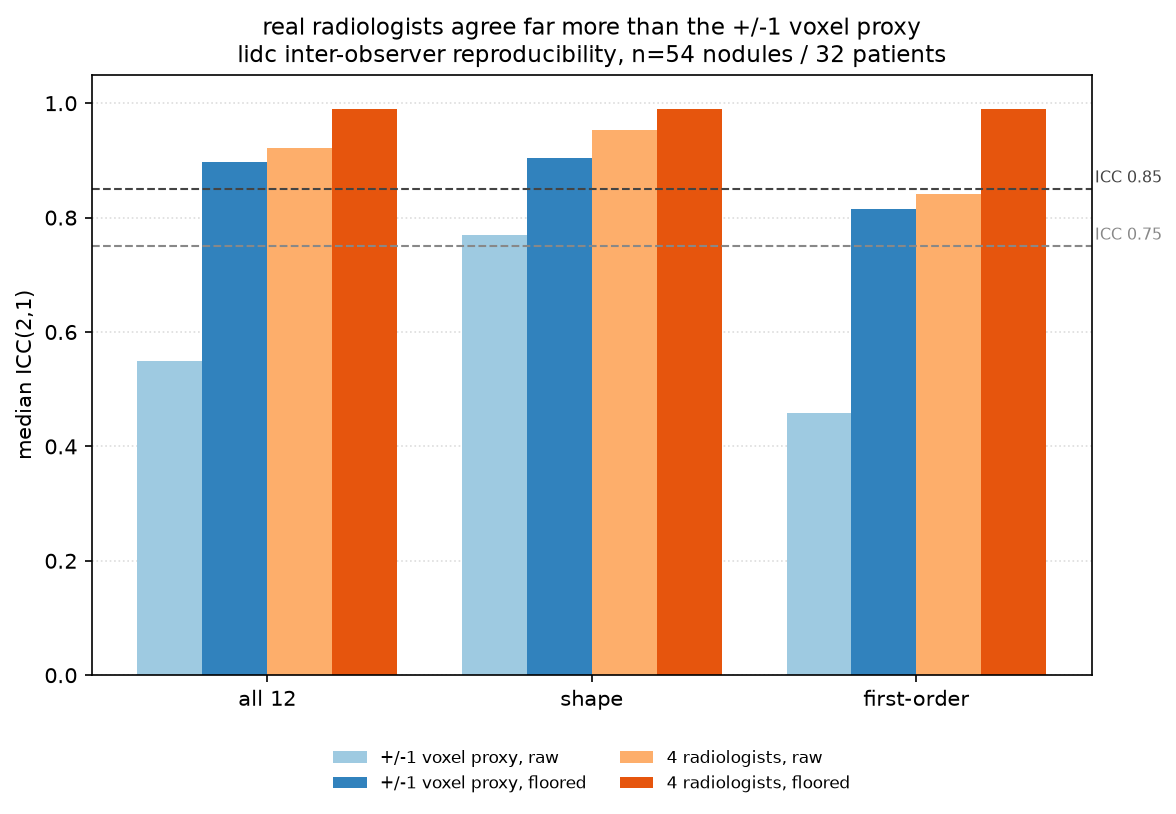
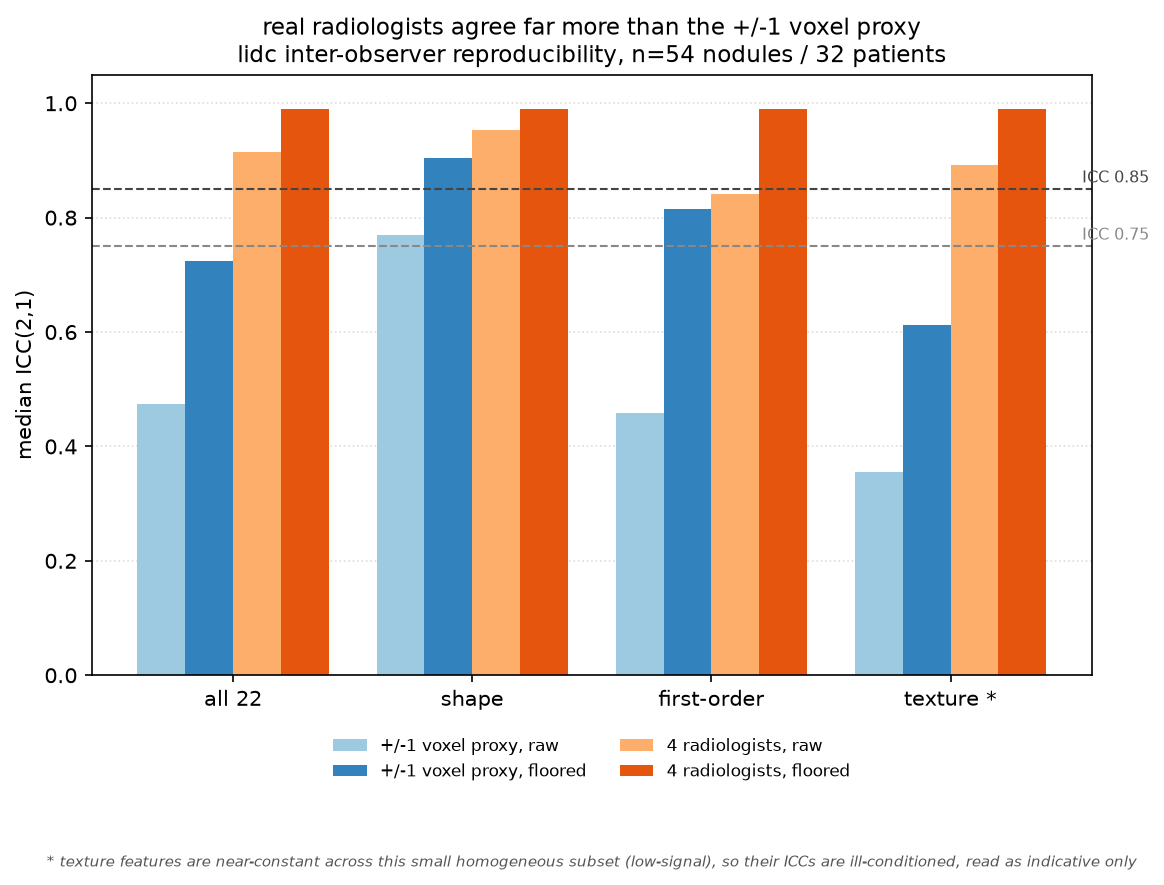
present real texture reproducibility (fragile under proxy, low-signal on subset)
the real 4-rater run scored texture: median icc 0.36 under the +/-1 voxel proxy (the most fragile family, matching the literature) but 0.89 under real readers. the low-signal guard fires on 8/10 texture features though, so the honest read is the subset is too small and texturally uniform to measure texture reproducibility cleanly, not that texture is robust. lidc figure gets a 4th (texture) family group with a low-signal footnote; readme part 2, build plan and status updated.

diff --git a/scripts/make_figures.py b/scripts/make_figures.py
@@ -115,7 +115,7 @@ def real_lidc_figure() -> None:
     import json
 
     def medians(summary):
-        return [summary[f]["median_icc"] for f in ("ALL", "shape", "firstorder")]
+        return [summary[f]["median_icc"] for f in ("ALL", "shape", "firstorder", "texture")]
 
     rj = Path(__file__).resolve().parents[1] / "results" / "lidc" / "results.json"
     if rj.exists() and json.loads(rj.read_text()).get("interobserver"):
@@ -124,11 +124,11 @@ def real_lidc_figure() -> None:
         real_raw, real_flo = medians(r["interobserver"]), medians(r["interobserver_floored"])
         n_nod, n_pat = r.get("interobserver_n_nodules", "?"), r.get("n_patients", "?")
     else:
-        proxy_raw, proxy_flo = [0.549, 0.769, 0.458], [0.897, 0.904, 0.815]
-        real_raw, real_flo = [0.922, 0.954, 0.841], [0.990, 0.990, 0.990]
+        proxy_raw, proxy_flo = [0.474, 0.769, 0.458, 0.355], [0.725, 0.904, 0.815, 0.612]
+        real_raw, real_flo = [0.914, 0.954, 0.841, 0.892], [0.990, 0.990, 0.990, 0.990]
         n_nod, n_pat = 54, 32
 
-    fams = ["all 12", "shape", "first-order"]
+    fams = ["all 22", "shape", "first-order", "texture *"]
     x = np.arange(len(fams))
     w = 0.2
     series = [
@@ -150,9 +150,13 @@ def real_lidc_figure() -> None:
     ax.set_title("real radiologists agree far more than the +/-1 voxel proxy\n"
                  f"lidc inter-observer reproducibility, n={n_nod} nodules / {n_pat} patients",
                  fontsize=11)
-    ax.legend(loc="lower center", bbox_to_anchor=(0.5, -0.22), ncol=2, fontsize=8, frameon=False)
+    ax.legend(loc="lower center", bbox_to_anchor=(0.5, -0.20), ncol=2, fontsize=8, frameon=False)
     ax.grid(axis="y", ls=":", color="#dddddd")
     ax.set_axisbelow(True)
+    ax.annotate("* texture features are near-constant across this small homogeneous subset (low-signal), so their "
+                "ICCs are ill-conditioned, read as indicative only",
+                xy=(0.5, -0.30), xycoords="axes fraction", ha="center", va="top",
+                fontsize=7, color="#555555", style="italic")
 
     FIG_DIR.mkdir(parents=True, exist_ok=True)
     out = FIG_DIR / "lidc_interobserver.png"

diff --git a/README.md b/README.md
@@ -40,15 +40,16 @@ segmenter is the main piece still to swap in:
 
 **what's done vs left.** the lidc-idri path now runs end-to-end (loader `data/lidc.py`,
 `configs/lidc.yaml`): real consensus masks, the radiologist malignancy rating as the label,
-and the 4-radiologist inter-observer reproducibility, all in the real-data results below.
-**still on the build plan:** (1) train the monai u-net to replace the threshold baseline
-(dice 0.47 on real ct is weak by design); (2) swap radiomics-lite for **pyradiomics** texture
-families (glcm/glrlm) under a **fixed 25 hu bin width** (not a fixed bin count, so a gray
-level means the same thing across patients) for ibsi compliance; (3) cluster-robust or
-mixed-effects stats, since nodules cluster within patients; (4) validate the malignancy
-correlation on lidc's ~157-case **pathology-confirmed** subset, not just the subjective
-rating. a stochastic contour perturbation, small-nodule icc stratification, and combat /
-nested-combat harmonization round out the list. then stop, no radiogenomics (scope creep).
+the 4-radiologist inter-observer reproducibility, and a **glcm texture family** (fixed 25 hu
+bin width), all in the real-data results below. **still on the build plan:** (1) train the
+monai u-net to replace the threshold baseline (dice 0.47 on real ct is weak by design); (2) a
+**larger, texturally-varied cohort** to pin texture reproducibility (the glcm features are
+low-signal on the current small subset) plus the remaining **pyradiomics** families
+(glrlm/glszm/ngtdm); (3) cluster-robust or mixed-effects stats, since nodules cluster within
+patients; (4) validate the malignancy correlation on lidc's ~157-case **pathology-confirmed**
+subset, not just the subjective rating. a stochastic contour perturbation, small-nodule icc
+stratification, and combat / nested-combat harmonization round out the list. then stop, no
+radiogenomics (scope creep).
 see `scripts/download_data.md`.
 
 ## quickstart
@@ -180,20 +181,33 @@ method holds, and the proxy turns out to have been pessimistic:
 
 | family | median ICC raw | median ICC floored | % ICC > 0.75 (raw -> floored) |
 |---|---|---|---|
-| all 12 | 0.92 | 0.99 | 75% -> 92% |
+| all 22 | 0.91 | 0.99 | 77% -> 91% |
 | shape | 0.95 | 0.99 | 100% -> 100% |
 | first-order | 0.84 | 0.99 | 62% -> 88% |
+| texture (glcm) * | 0.89 | 0.99 | 80% -> 90% |
 
-![grouped bars of median ICC by feature family: the four-radiologist inter-observer bars sit far above the +/-1 voxel proxy bars at every family, and the -300 HU floor lifts both to near 1.0; 75 percent of features clear ICC 0.75 raw, shape higher than first-order](docs/figures/lidc_interobserver.png)
+![grouped bars of median ICC by feature family (all, shape, first-order, texture): the four-radiologist inter-observer bars sit far above the +/-1 voxel proxy bars at every family, and the -300 HU floor lifts both to near 1.0; 77 percent of features clear ICC 0.75 raw, shape highest, texture flagged low-signal on this subset](docs/figures/lidc_interobserver.png)
 
-two honest reads. first, **75% of features clear icc 0.75 raw** (shape 100%, first-order 62%),
+two honest reads. first, **77% of features clear icc 0.75 raw** (shape 100%, first-order 62%),
 right in the published lidc inter-observer range (~60-85%), with shape beating first-order
 exactly as expected. second, **real radiologists agree far more than the proxy implied**
-(median icc 0.92 vs the proxy's 0.55): a uniform one-voxel erode/dilate is a deliberately
+(median icc 0.91 vs the proxy's 0.47): a uniform one-voxel erode/dilate is a deliberately
 harsh stand-in, so it *under*-states real reproducibility. the proxy earns its keep because
 the *qualitative* findings (shape > first-order, the floor helping, which features are robust)
 replicate on the real readers, and the floor still lifts everything to ~0.99 (which survives
 the degeneracy check below).
+
+**texture is the exception worth dwelling on.** the 10 glcm features are by far the *most*
+fragile under the proxy (median icc 0.36, lowest of any family, matching the literature's view
+of texture as boundary-sensitive) yet look robust under the real readers (0.89). but the
+low-signal guard fires on **8 of the 10** (in the perturbation analysis over all 109 nodules):
+across this small, homogeneous subset the texture features barely vary between nodules, so their
+iccs (here and in the inter-observer set) are ill-conditioned (the asterisk in the table and
+figure). so the honest read is not "texture is reproducible" but "this cohort is
+too small and texturally uniform to measure texture reproducibility cleanly". the proxy (0.36)
+and the literature say texture is the fragile family; pinning the real number needs a larger,
+texturally varied cohort. the guard catching this, rather than the pipeline reporting a
+confident 0.89, is the point.
 
 **caveats on the inter-observer result** (flagged by a radiomics review):
 
@@ -281,6 +295,7 @@ tests/     test_core.py
 **verified end-to-end on both synthetic data and real lidc-idri.** the synthetic phantom
 develops the method (floor recovery, volume-confound, the low-signal guard, all unit-tested,
 exit-0); the real lidc run validates it (109 nodules / 32 patients, 4-radiologist
-inter-observer reproducibility median icc 0.92 raw -> 0.99 floored, matching the published
-range). next: train the monai segmenter to replace the dice-0.47 threshold baseline, add
-pyradiomics texture under a fixed bin width, and cluster-robust stats (build plan above).
+inter-observer reproducibility median icc 0.91 raw -> 0.99 floored, matching the published
+range; a glcm texture family is in but flagged low-signal on this small subset). next: train
+the monai segmenter to replace the dice-0.47 threshold baseline, a larger texturally-varied
+cohort to pin texture reproducibility, and cluster-robust stats (build plan above).